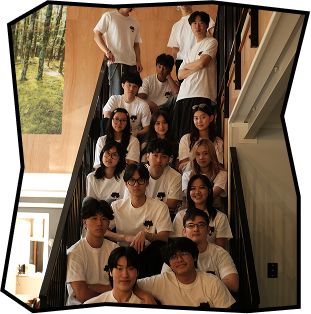
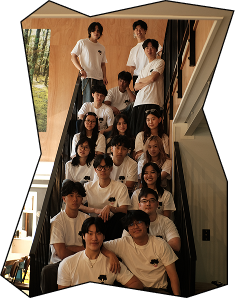
who are we mobile revision prototype

diff --git a/src/app/(frontend)/(home)/_components/WhoAreWe.tsx b/src/app/(frontend)/(home)/_components/WhoAreWe.tsx
@@ -1,99 +1,112 @@
-'use client'
+'use client';
 // import { useState, useEffect, useRef } from 'react'
-import Image from 'next/image'
-import Title from "@/components/ui/Title";
+import Image from 'next/image';
+import Title from '@/components/ui/Title';
 
 export default function WhoAreWe() {
-  // const [isLoaded, setIsLoaded] = useState(false)
-  // const imgRef = useRef<HTMLImageElement | null>(null)
+    // const [isLoaded, setIsLoaded] = useState(false)
+    // const imgRef = useRef<HTMLImageElement | null>(null)
 
-  // useEffect(() => {
-  //   if (imgRef.current && imgRef.current.complete) {
-  //     setIsLoaded(true)
-  //   }
-  // }, [])
+    // useEffect(() => {
+    //   if (imgRef.current && imgRef.current.complete) {
+    //     setIsLoaded(true)
+    //   }
+    // }, [])
 
-  return (
-    <div className="w-full flex justify-center md:w-auto">
-      <div className="relative w-full">
-        {/* bottom right frame*/}
-        <Image
-          src="/images/home/frame.png"
-          alt="top left frame"
-          width={60}
-          height={60}
-          className="absolute -bottom-10 -right-4 min-[490px]:-bottom-18 md:-bottom-10 w-[12%] md:w-[7.5%]"
-        />
+    return (
+        <div className="w-full flex justify-center md:w-auto">
+            <div className="relative w-full">
+                {/* bottom right frame*/}
+                <Image
+                    src="/images/home/frame.png"
+                    alt="top left frame"
+                    width={60}
+                    height={60}
+                    className="absolute -bottom-10 -right-4 min-[490px]:-bottom-18 md:-bottom-10 w-[12%] md:w-[7.5%]"
+                />
 
-        {/* top left frame */}
-        <Image
-          src="/images/home/frame.png"
-          alt="bottom right frame"
-          width={60}
-          height={60}
-          className="absolute -top-5 -left-9 min-[490px]:-top-14 md:-top-5 scale-x-[-1] scale-y-[-1] w-[12%] md:w-[7.5%] -rotate-14 md:-rotate-18"
-        />
+                {/* top left frame */}
+                <Image
+                    src="/images/home/frame.png"
+                    alt="bottom right frame"
+                    width={60}
+                    height={60}
+                    className="absolute -top-5 -left-9 min-[490px]:-top-14 md:-top-5 scale-x-[-1] scale-y-[-1] w-[12%] md:w-[7.5%] -rotate-14 md:-rotate-18"
+                />
 
-        {/* main box component */}
-        <div className="flex items-center justify-center gap-11 py-9 px-10 rounded-[3.5em] md:rounded-[5em] bg-[#ebe9e6]">
-          {/* background */}
-          <div className="absolute inset-0 bg-[url('/images/home/liquid_marbling_background.png')] bg-cover bg-center opacity-7 rounded-[3.5em] md:rounded-[5em]" />
+                {/* main box component */}
+                <div className="flex items-center justify-center gap-11 py-9 px-10 rounded-[3.5em] md:rounded-[5em] bg-[#ebe9e6]">
+                    {/* background */}
+                    <div className="absolute inset-0 bg-[url('/images/home/liquid_marbling_background.png')] bg-cover bg-center opacity-7 rounded-[3.5em] md:rounded-[5em]" />
 
-          {/* Who are we image */}
-          <div className="relative items-center hidden md:flex">
-            <Image
-              // ref={imgRef}
-              src="/images/home/team_photo.png"
-              alt="team photo"
-              width={320}
-              height={320}
-              // onLoad={() => setIsLoaded(true)}
-            />
-          </div>
+                    {/* Who are we image */}
+                    <div className="relative items-center hidden md:flex">
+                        <Image
+                            // ref={imgRef}
+                            src="/images/home/team_photo.png"
+                            alt="team photo"
+                            width={320}
+                            height={320}
+                            // onLoad={() => setIsLoaded(true)}
+                        />
+                    </div>
 
-          {/* Right side text */}
-          <div className="z-10 flex flex-col items-center gap-4">
-            <div className="relative">
-              {/* title */}
-              <Title className="bg-primary-red-400">
-                Who are we?
-              </Title>
-              {/* arrow */}
-              <Image
-                src="/images/home/arrow.png"
-                alt="arrow"
-                width={105}
-                height={105}
-                className="absolute top-[2rem] left-[-6.2rem] hidden md:block w-[33%]"
-              />
+                    {/* Right side text */}
+                    <div className="z-10 flex flex-col items-center gap-4">
+                        <div className="relative">
+                            {/* title */}
+                            <Title className="bg-primary-red-400">Who are we?</Title>
+                            {/* arrow */}
+                            <Image
+                                src="/images/home/arrow.png"
+                                alt="arrow"
+                                width={105}
+                                height={105}
+                                className="absolute top-[2rem] left-[-6.2rem] hidden md:block w-[33%]"
+                            />
+                        </div>
+
+                        {/* description */}
+                        <p className="w-[88%] md:w-56 mb-4 font-medium text-center text-black text-base/tight bg">
+                            ESA Social Club is your go-to community for fun, connection and a little
+                            friendly competition.
+                        </p>
+                        <div className="md:hidden relative w-90 flex justify-center px-4">
+                            <Image
+                                src="/images/home/who_are_we_mobile.png"
+                                alt="team photo"
+                                width={100}
+                                height={100}
+                                className="w-[90%] h-auto max-w-full object-contain"
+                            />
+                            <div className="flex flex-col">
+                                <Image
+                                    src="\images\home\team_esa.svg"
+                                    alt="team_esa.svg"
+                                    width={131}
+                                    height={150}
+                                />
+                                <Image
+                                    src="\images\home\arrow2.svg"
+                                    alt="team_esa.svg"
+                                    width={50}
+                                    height={15}
+                                />
+                            </div>
+                        </div>
+                        <div className="w-[80%] md:w-88">
+                            <p className="self-start text-sm tracking-[0.15em] text-black mb-4">
+                                We are one of the largest and most diverse social clubs on campus
+                                and welcome anyone to join us!
+                            </p>
+                            <p className="self-start text-sm tracking-[0.15em] text-black">
+                                We believe that university life is not just about academic
+                                studies... but also having fun, and meeting new friends.
+                            </p>
+                        </div>
+                    </div>
+                </div>
             </div>
-
-            {/* description */}
-            <p className="w-[80%] md:w-56 mb-4 font-medium text-center text-black text-base/tight bg">
-              ESA Social Club is your go-to community for fun, connection, and a little friendly
-              competition.
-            </p>
-            <div className="md:hidden relative w-90 flex justify-center px-4">
-              <Image
-                src="/images/home/who_are_we_mobile.png"
-                alt="team photo"
-                width={100}
-                height={100}
-                className="w-[90%] h-auto max-w-full object-contain"
-              />
-            </div>
-            <div className='w-[80%] md:w-88'>
-              <p className="self-start text-sm tracking-[0.15em] text-black md:mb-4">
-                We are one of the largest and most diverse social clubs on campus and welcome anyone to join us!
-              </p>
-              <p className="self-start text-sm tracking-[0.15em] text-black hidden md:block">
-                We believe that university life is not just about academic studies... but
-                also having fun, and meeting new friends.
-              </p>
-            </div>
-          </div>
         </div>
-      </div>
-    </div>
-  )
+    );
 }
